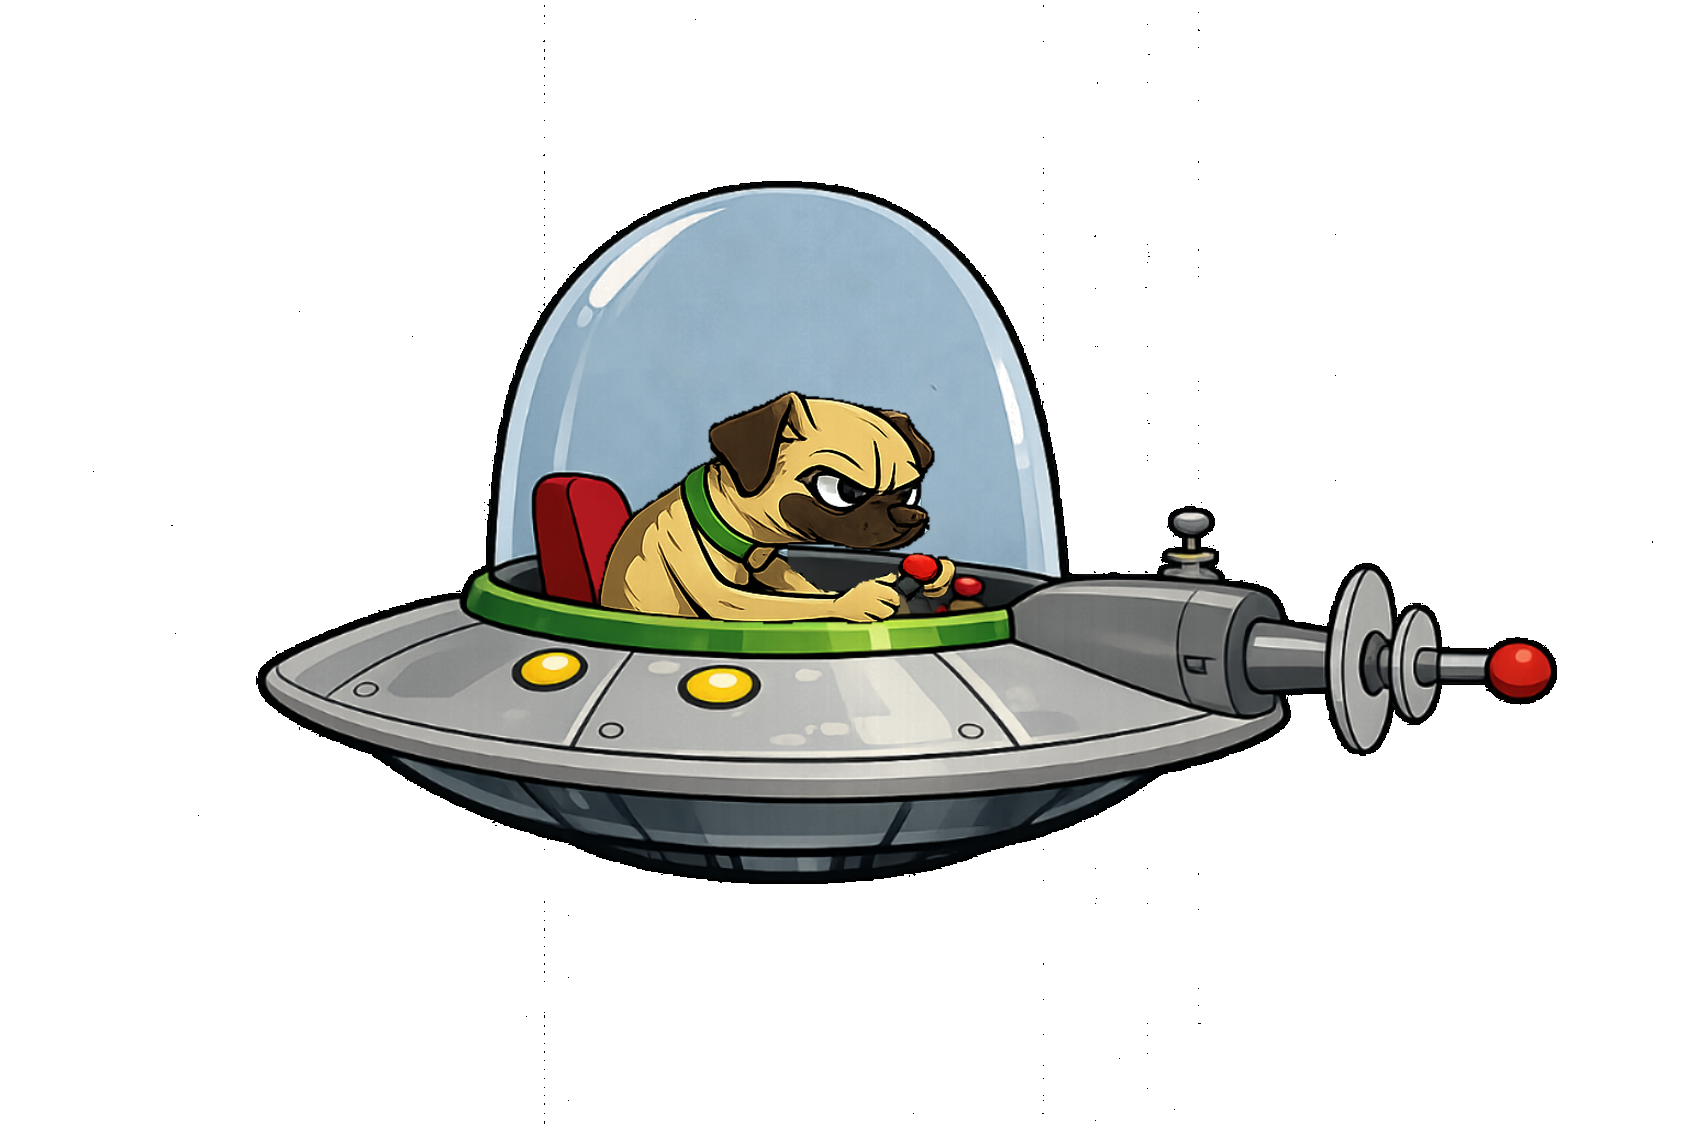
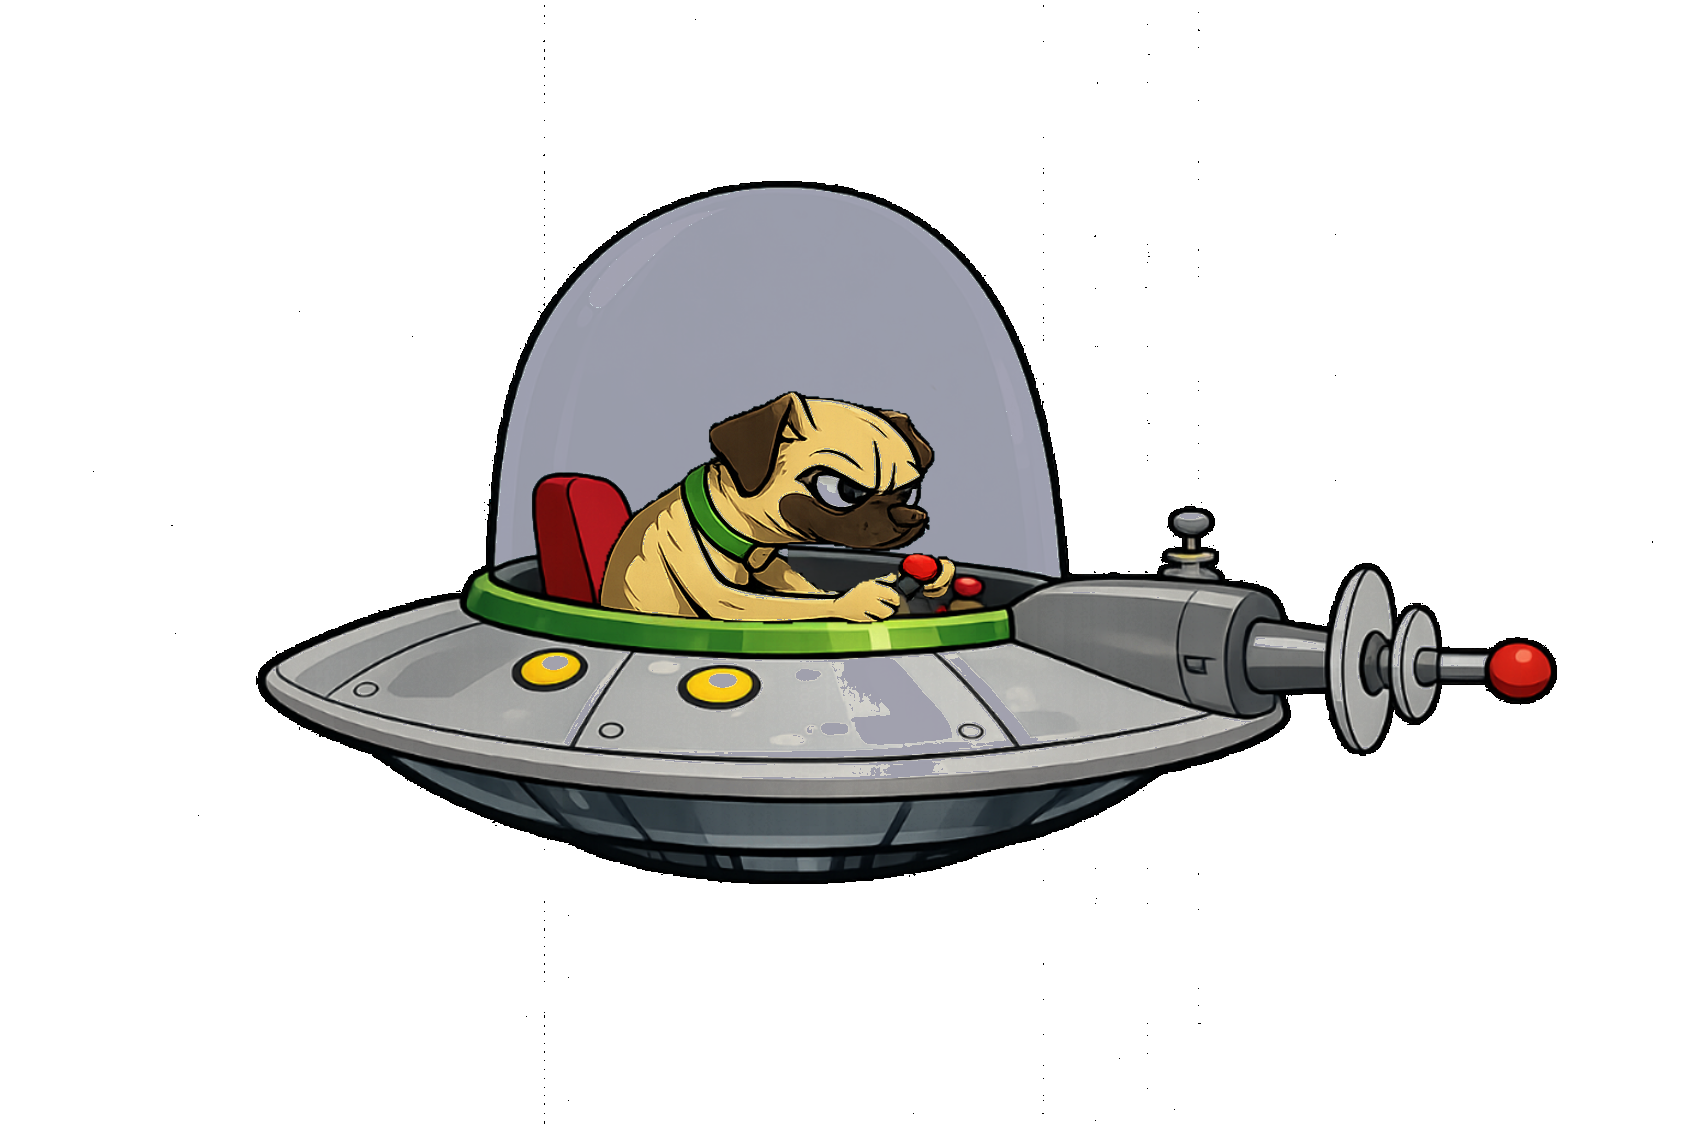
[asteroids] Fix ship sprite cockpit halo + redesign difficulty select
Ship sprites:
- Converted bright blue/white cockpit dome pixels to dark semi-transparent
  glass, eliminating the bright halo that appeared against dark space
- Added runtime alpha edge erosion for remaining fringe cleanup

Difficulty select:
- Redesigned into premium sci-fi cockpit panel with glowing borders,
  animated cards, sparkle particles, and dark vignette overlay
- Selected option now pulses with glow and scale animation

diff --git a/index.html b/index.html
@@ -76,18 +76,53 @@ function cleanSpriteAlpha(img) {
     cx.drawImage(img, 0, 0);
     const data = cx.getImageData(0, 0, c.width, c.height);
     const px = data.data;
+    const w = c.width;
+    const h = c.height;
+
+    // Pass 1: Kill low-alpha fringe
     for (let i = 0; i < px.length; i += 4) {
         const a = px[i + 3];
         if (a < 40) {
-            px[i + 3] = 0;
-        } else if (a < 180) {
-            // Premultiply RGB to eliminate white fringe halos
+            px[i] = px[i+1] = px[i+2] = px[i+3] = 0;
+        } else if (a < 200) {
             const factor = (a / 255) * (a / 255);
             px[i] = Math.round(px[i] * factor);
             px[i + 1] = Math.round(px[i + 1] * factor);
             px[i + 2] = Math.round(px[i + 2] * factor);
         }
     }
+
+    // Pass 2: Erode bright edge pixels adjacent to transparency
+    const copy = new Uint8ClampedArray(px);
+    for (let y = 1; y < h - 1; y++) {
+        for (let x = 1; x < w - 1; x++) {
+            const idx = (y * w + x) * 4;
+            const a = copy[idx + 3];
+            if (a < 60) continue; // skip transparent
+            // Check if any neighbor is transparent
+            let hasTransparentNeighbor = false;
+            for (let dy = -1; dy <= 1; dy++) {
+                for (let dx = -1; dx <= 1; dx++) {
+                    if (dx === 0 && dy === 0) continue;
+                    const nIdx = ((y + dy) * w + (x + dx)) * 4;
+                    if (copy[nIdx + 3] < 30) { hasTransparentNeighbor = true; break; }
+                }
+                if (hasTransparentNeighbor) break;
+            }
+            if (hasTransparentNeighbor) {
+                // Darken edge pixel and reduce alpha
+                const r = px[idx], g = px[idx+1], b = px[idx+2];
+                const brightness = (r + g + b) / 3;
+                if (brightness > 140) {
+                    px[idx] = Math.round(r * 0.4);
+                    px[idx+1] = Math.round(g * 0.4);
+                    px[idx+2] = Math.round(b * 0.4);
+                    px[idx+3] = Math.round(a * 0.6);
+                }
+            }
+        }
+    }
+
     cx.putImageData(data, 0, 0);
     return c;
 }